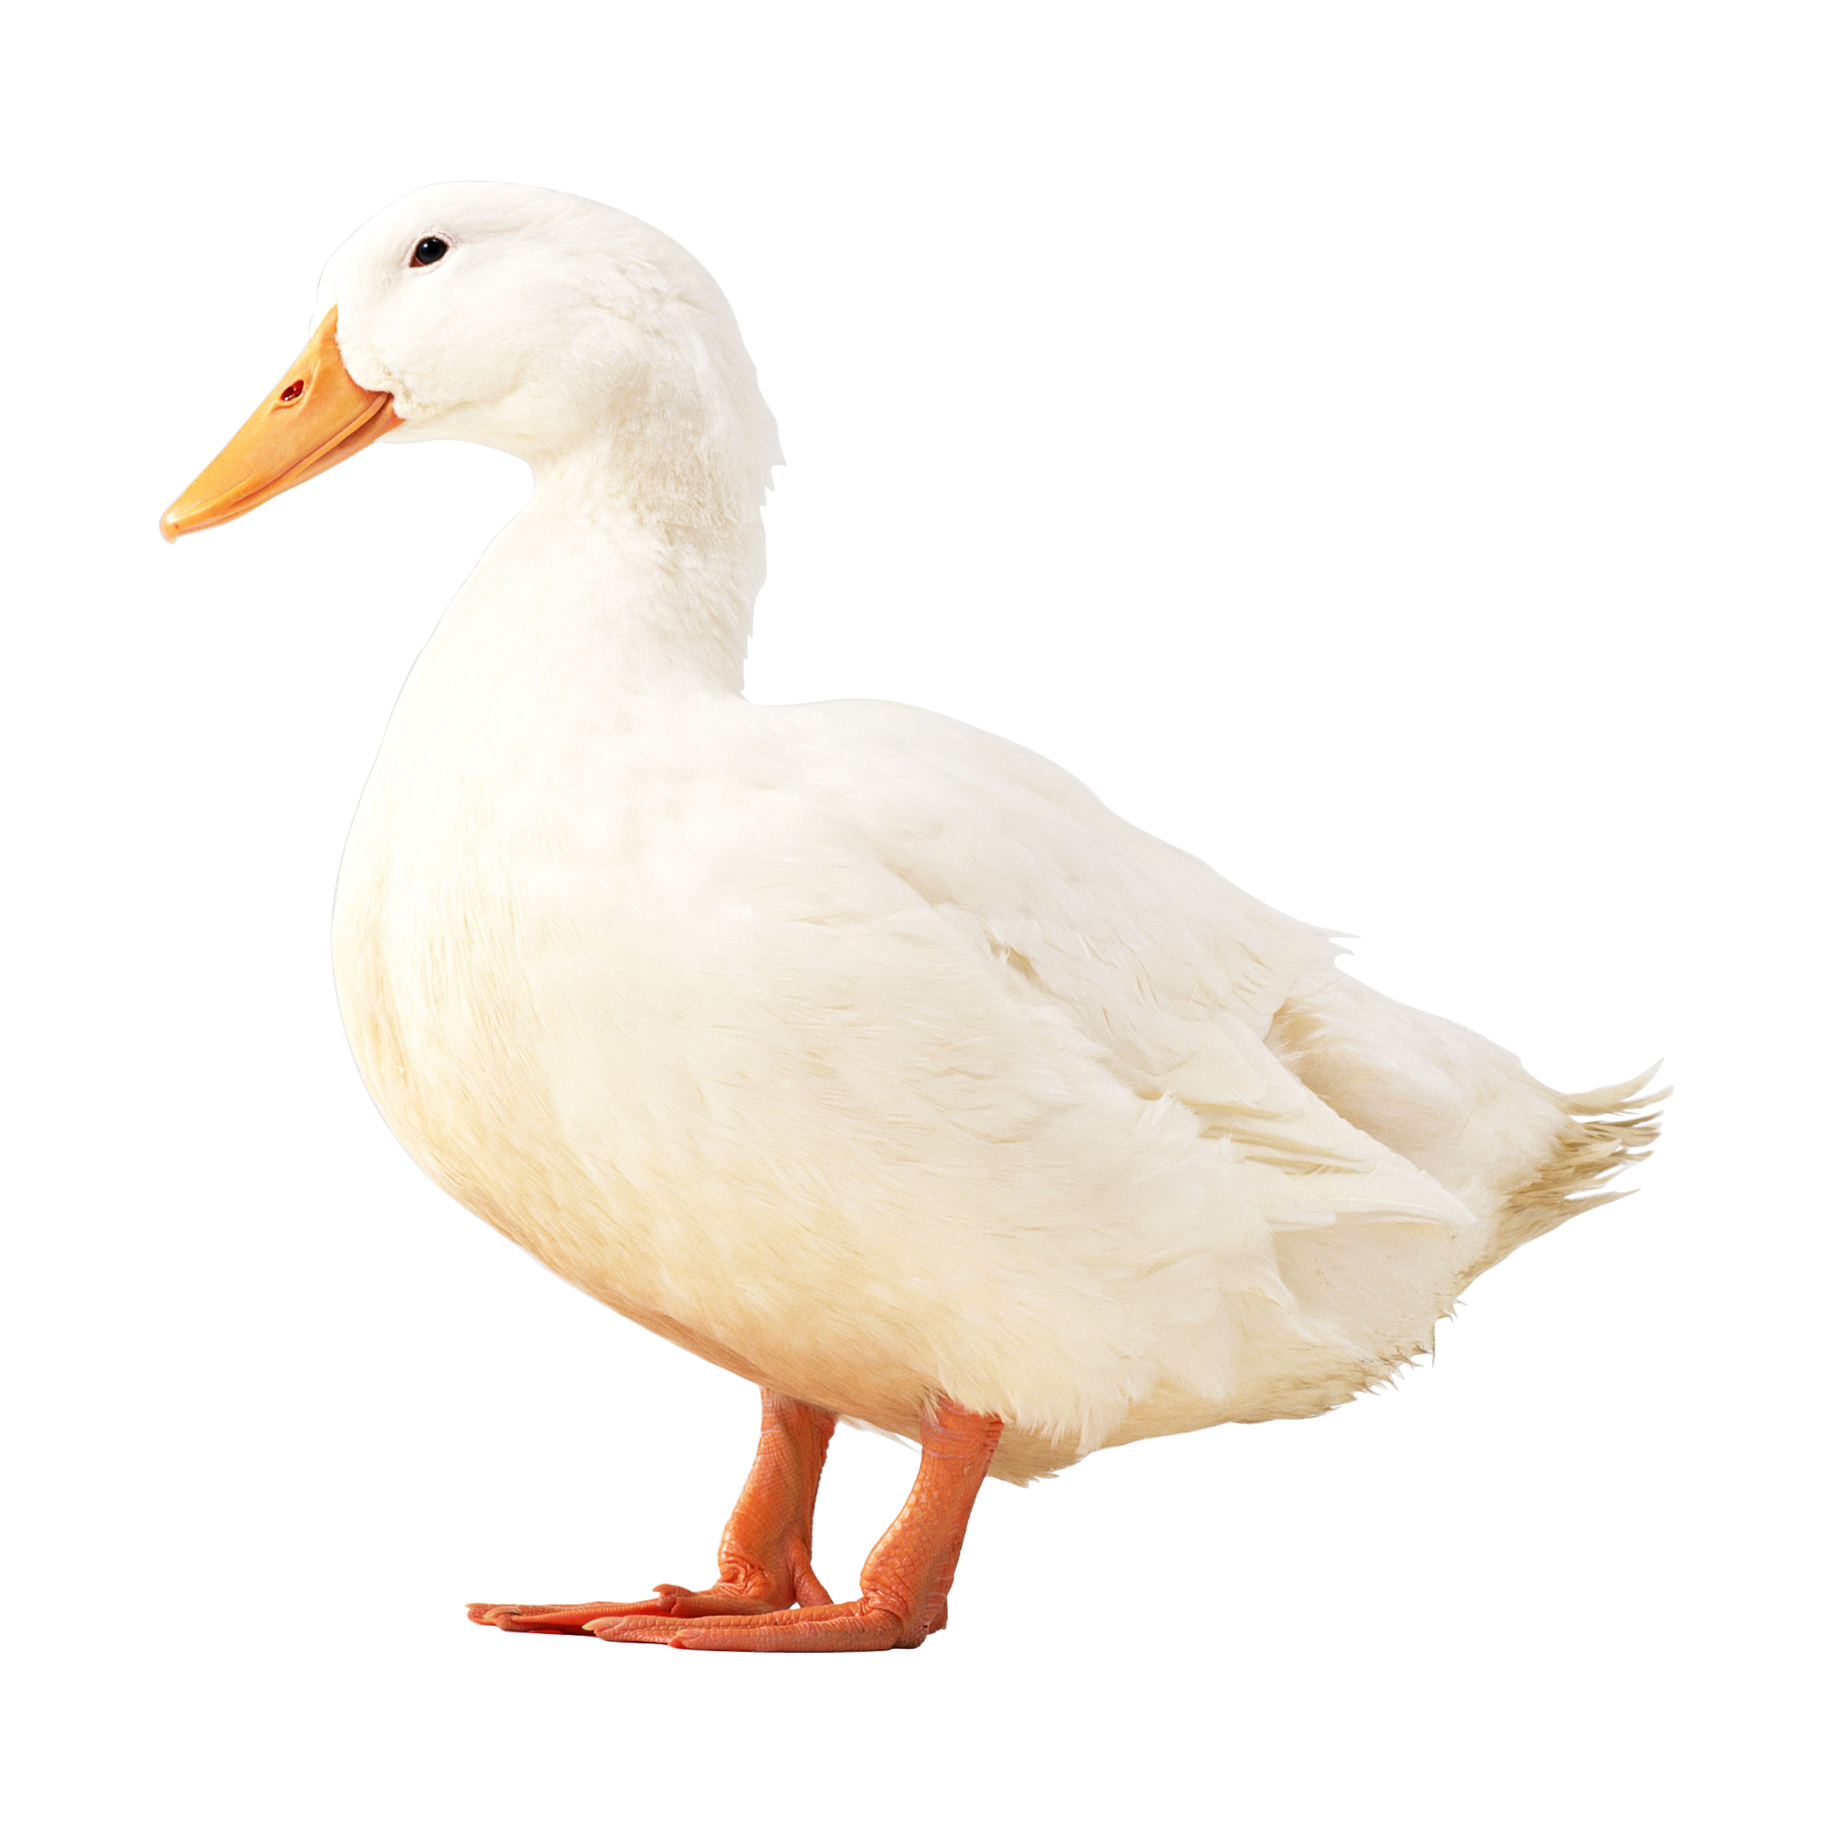
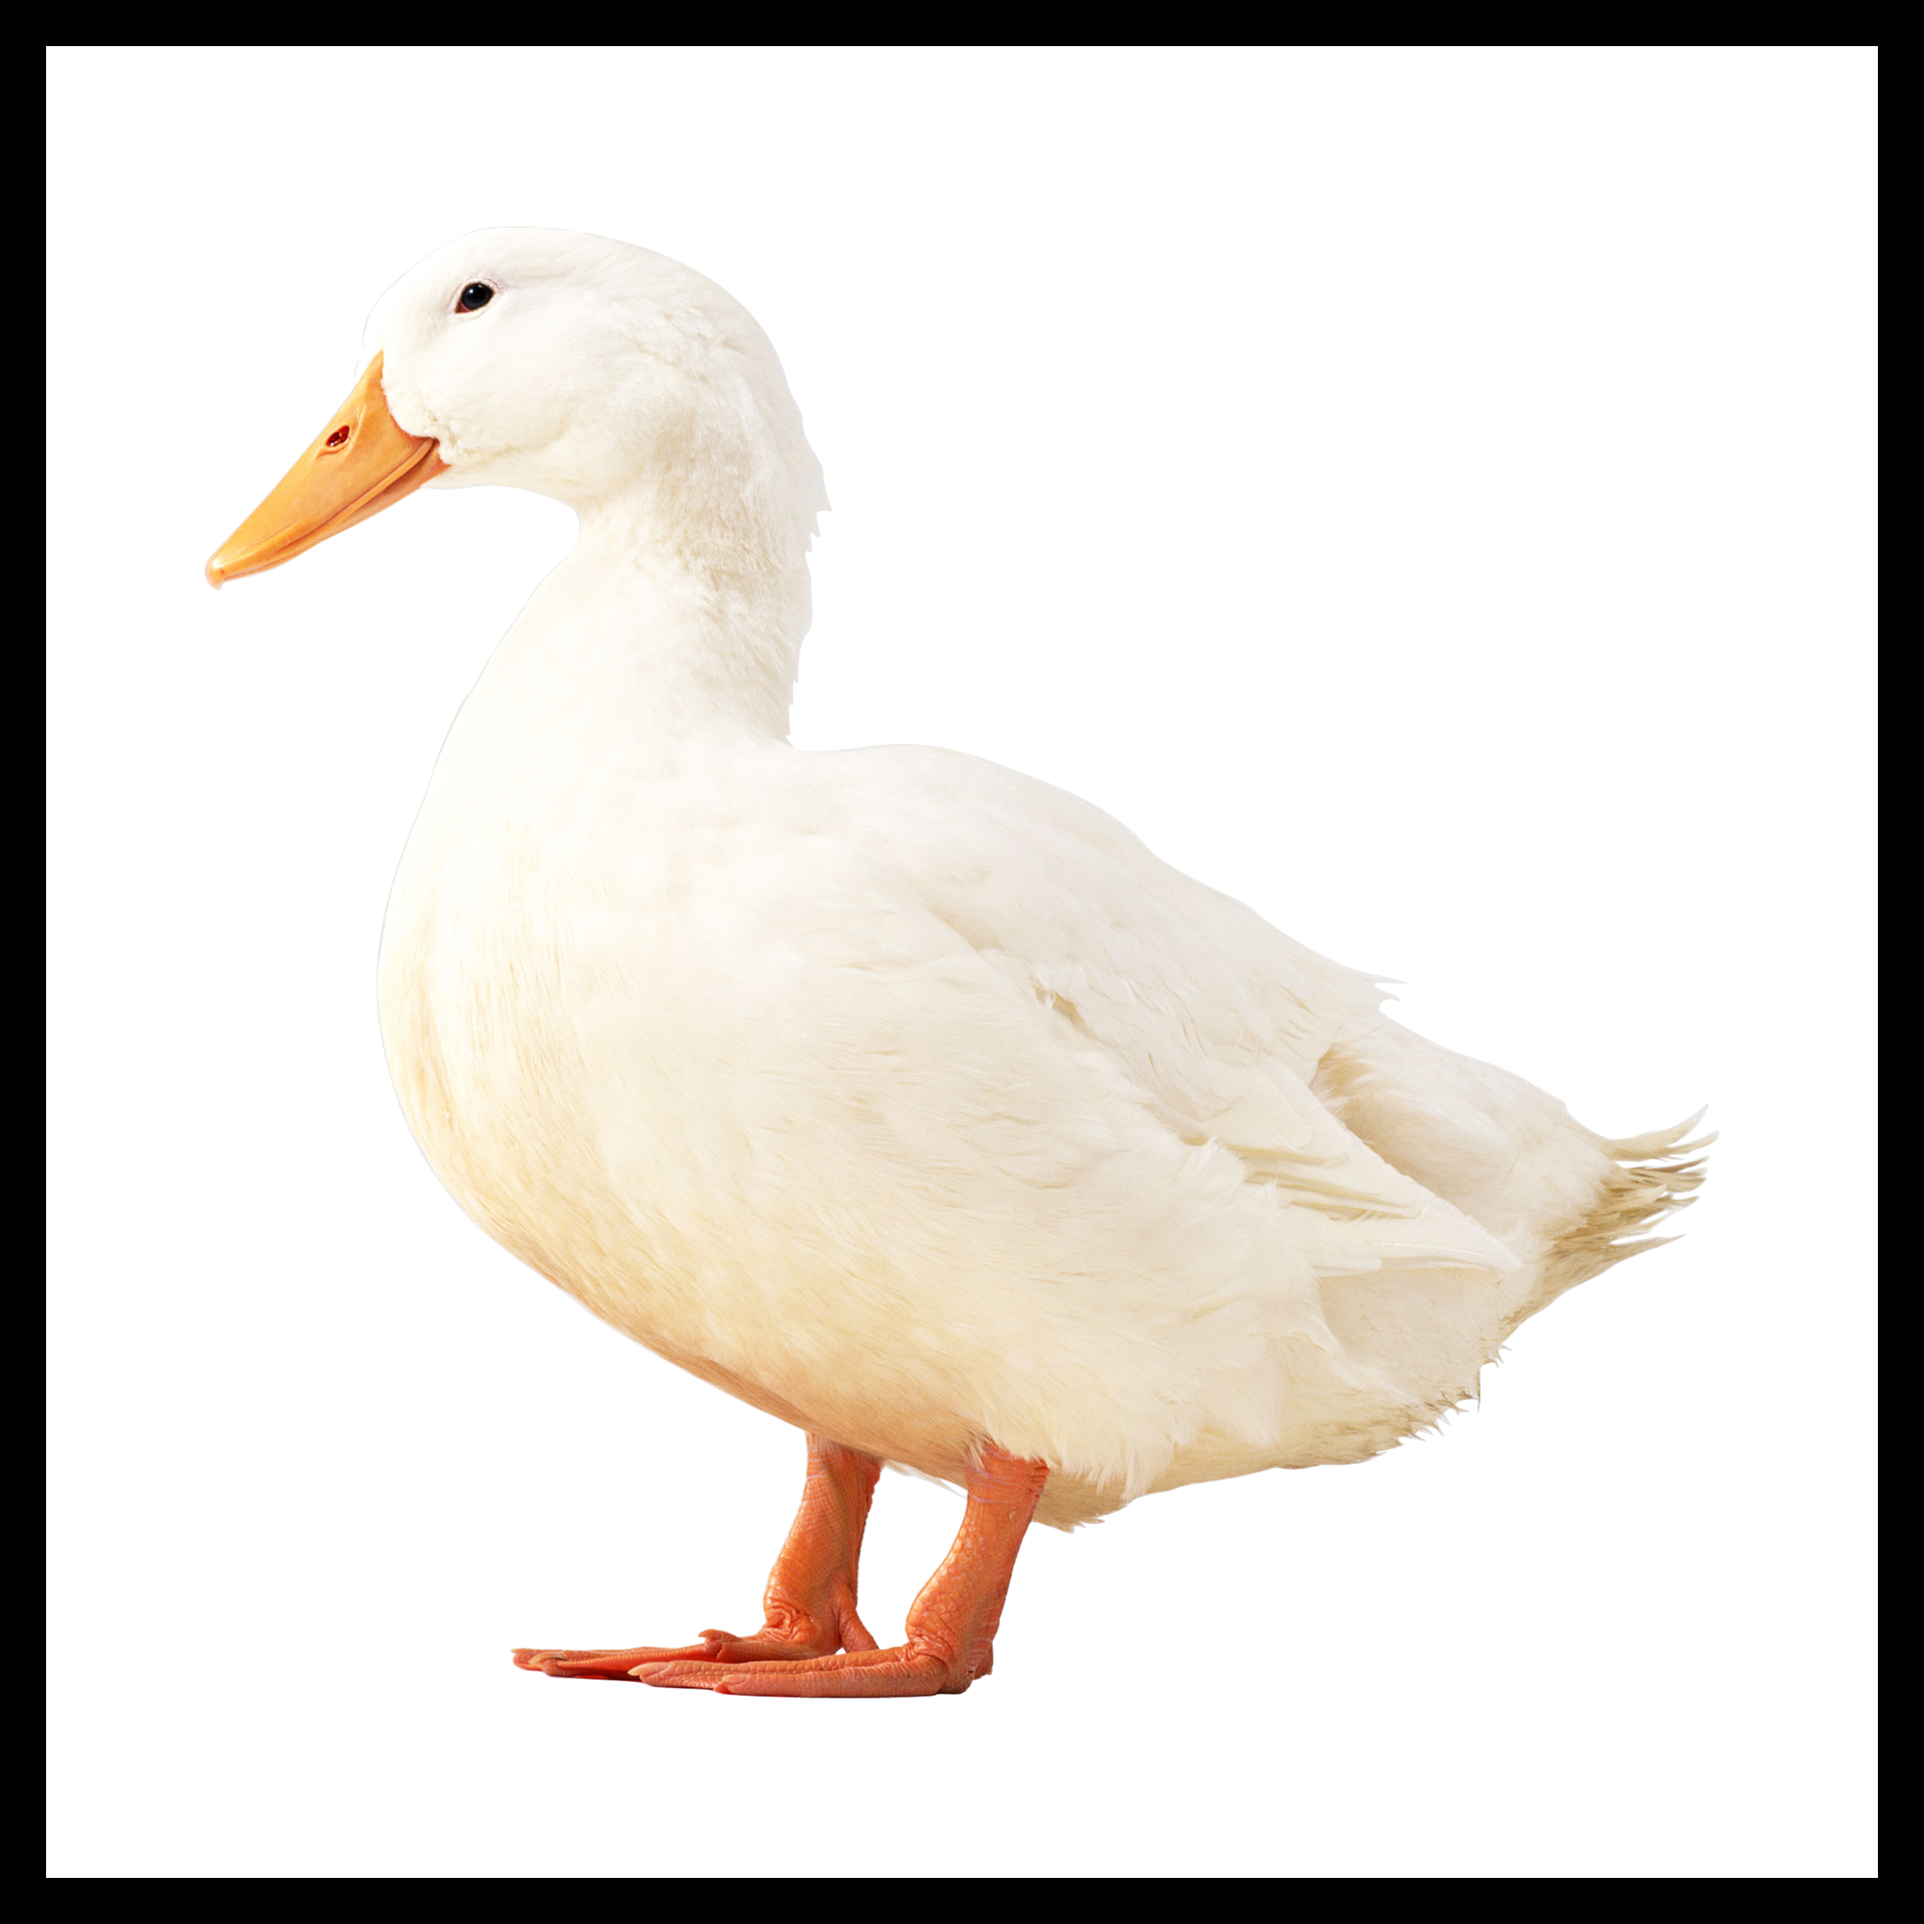
updated images to include border, removed text from decition phase

diff --git a/experiment/src/experiment.js b/experiment/src/experiment.js
@@ -425,27 +425,28 @@ const getDecisionStim = () => {
       : getImageUrl(currDistractorStim);
   const targetImage = getImageUrl(currTarget);
 
+  // Restore correct randomization
   const targetPosition = Math.random() < 0.5 ? "left" : "right";
+
+  const targetHtml = `
+    <div class="stimulus-block target-container">
+      <img id="target-img" src="${targetImage}" alt="${currTarget}" class="stimuli target-stimuli">
+    </div>`;
+
+  const externalHtml = `
+    <div class="stimulus-block external-container">
+      <img id="external-img" src="${externalStimImage}" alt="external" class="stimuli external-stimuli">
+    </div>`;
 
   return `
     <div class="decision-stim-container">
-      <div class="stimulus-block target-container">
-        <div id="target-placeholder" style="width: 200px; height: 200px; background: transparent;"></div>
-        <img id="target-img" src="${targetImage}" alt="${currTarget}" class="stimuli target-stimuli" style="display: none;">
-      </div>
-      <div class="cue-block">
-        ${getCue()}
-      </div>
-      <div class="stimulus-block external-container">
-        <img id="external-img" src="${externalStimImage}" alt="external" class="stimuli external-stimuli">
-      </div>
+      ${
+        targetPosition === "left"
+          ? targetHtml + externalHtml
+          : externalHtml + targetHtml
+      }
+      <div class="cue-block">${getCue()}</div>
     </div>
-    <script>
-      document.getElementById("target-img").onload = function() {
-        document.getElementById("target-placeholder").style.display = "none"; 
-        this.style.display = "block"; 
-      };
-    </script>
   `;
 };
 

diff --git a/experiment/src/style.css b/experiment/src/style.css
@@ -104,8 +104,3 @@ body, .jspsych-display-element {
   overflow: hidden;
 }
 
-#target-placeholder {
-  border: none !important; /* 🔥 Ensures placeholder does not create an artifact */
-  visibility: hidden;
-}
-
